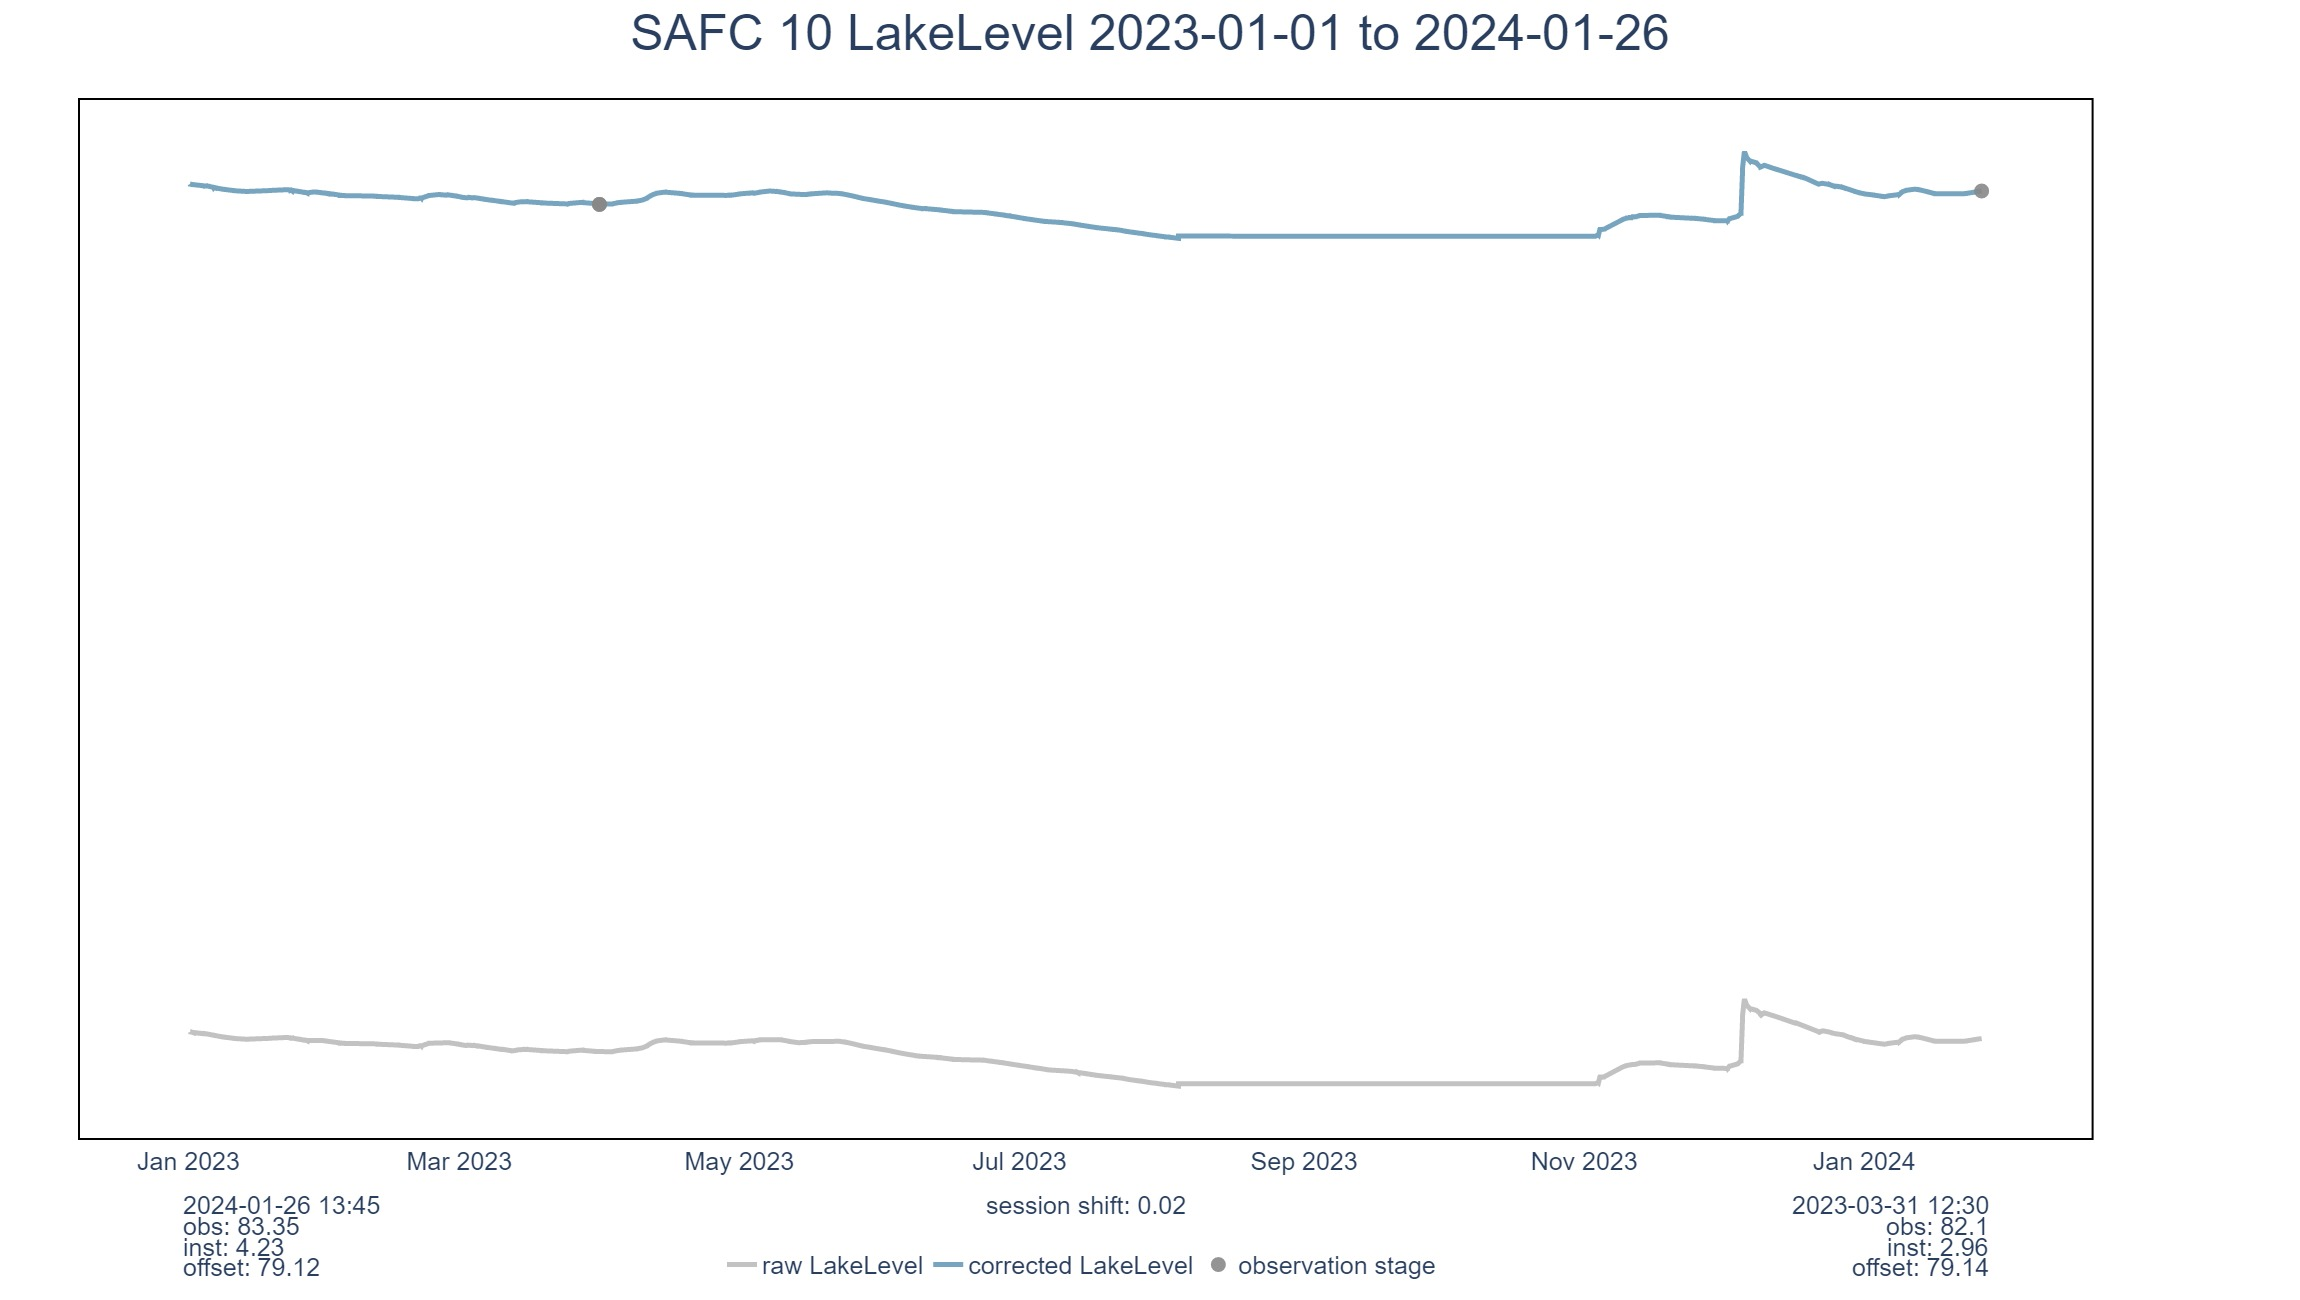
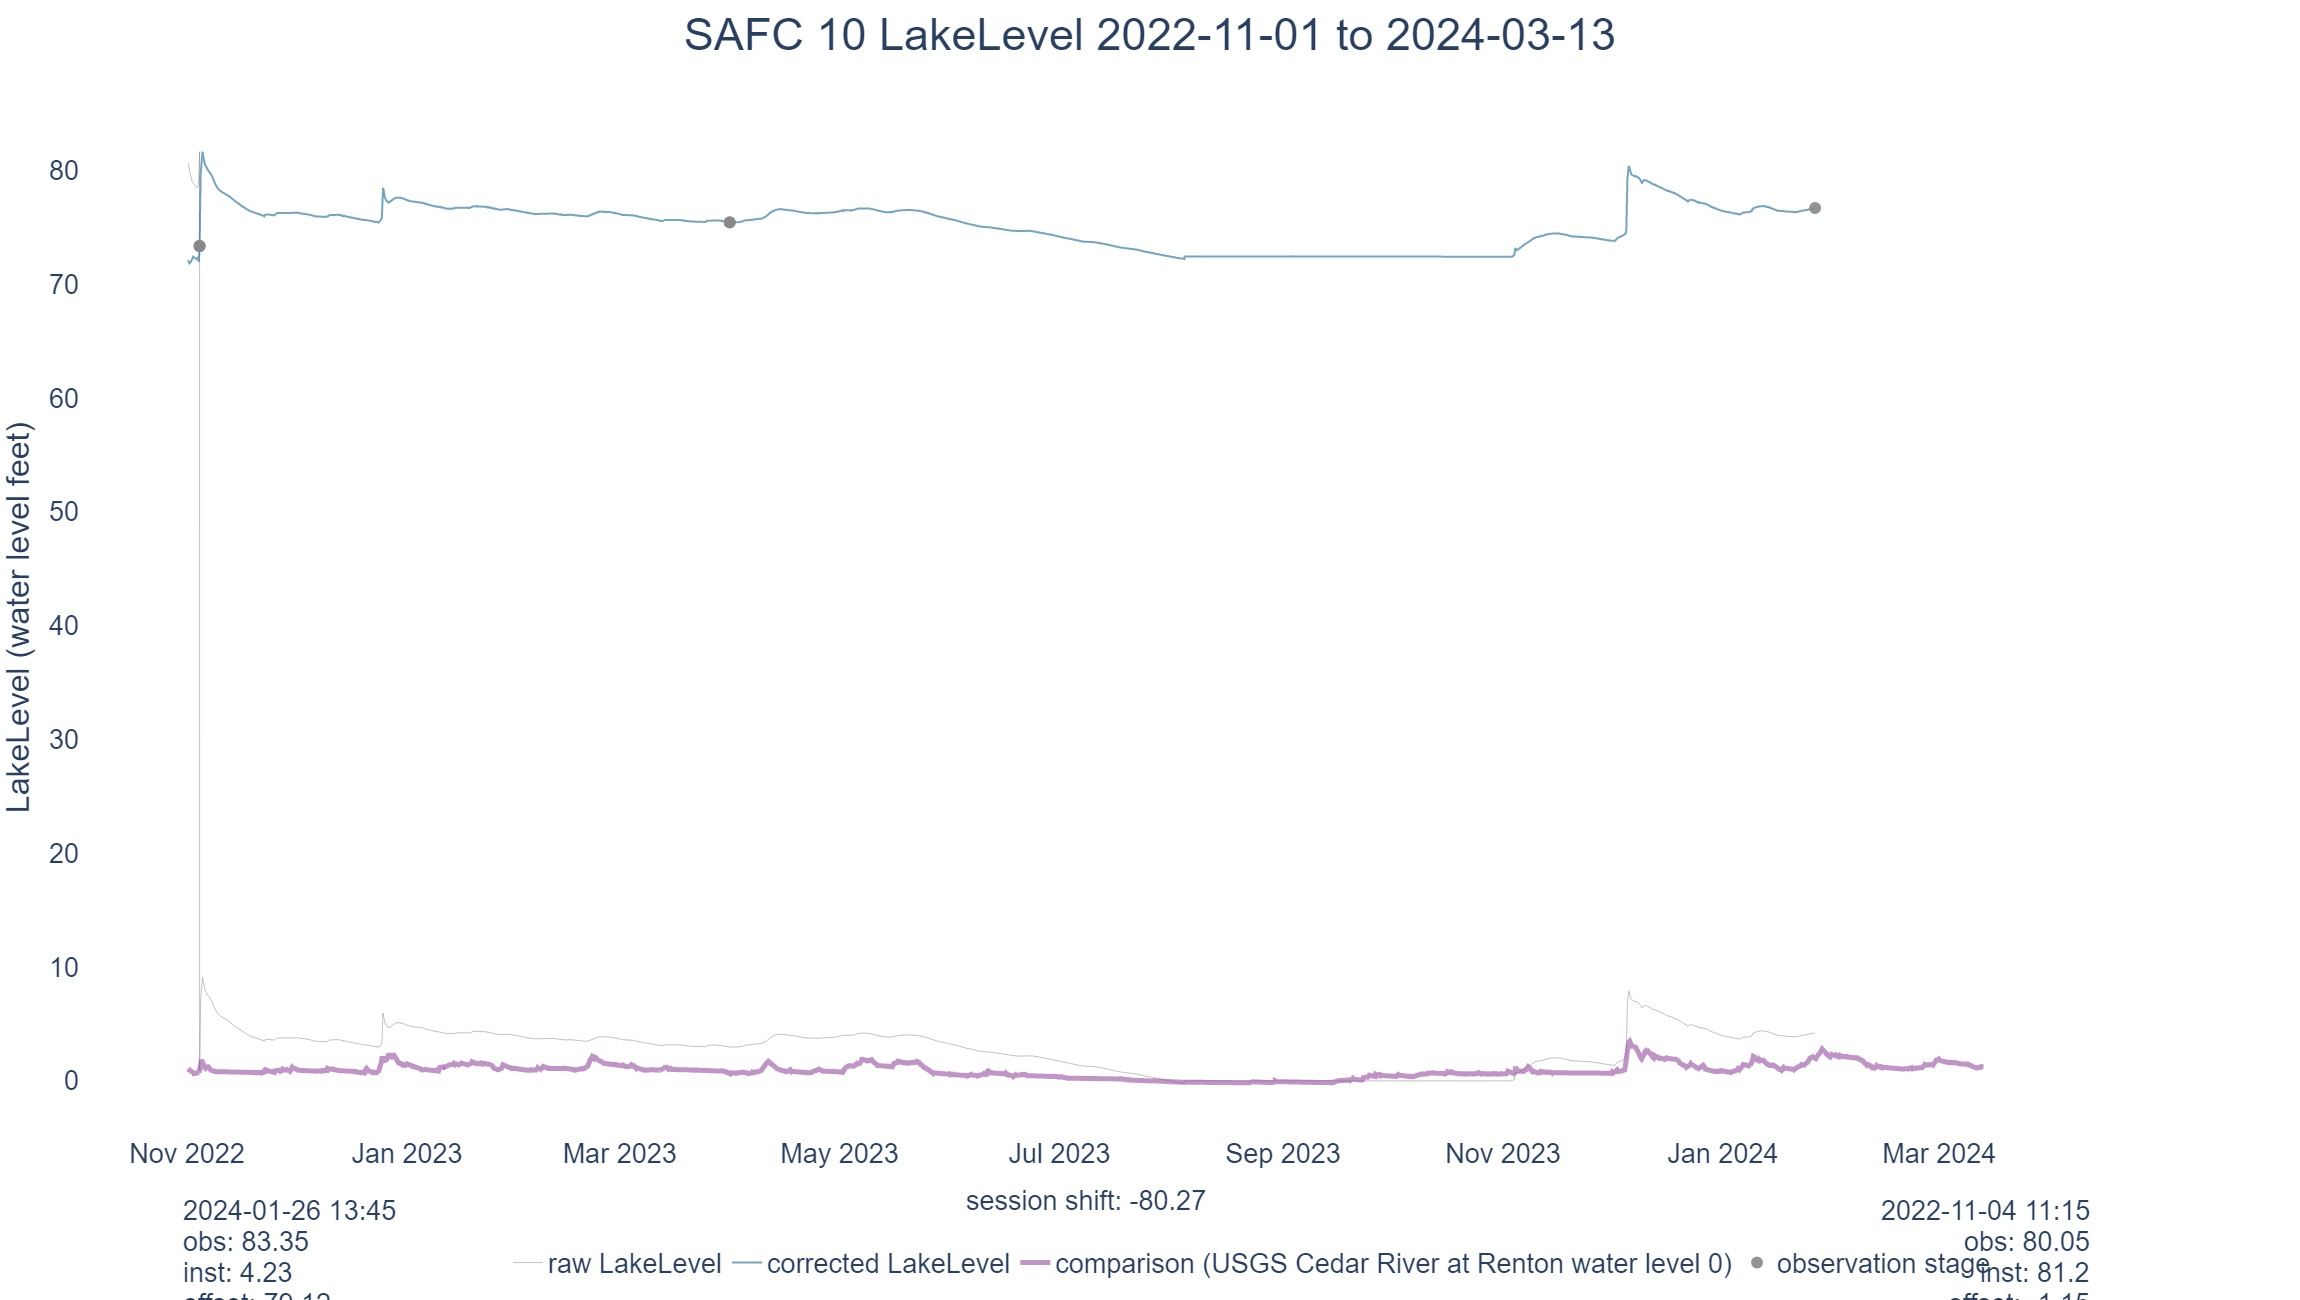
fixed end date function

diff --git a/cache_gdata.py b/cache_gdata.py
@@ -639,8 +639,6 @@ def update_Barometer(rows, Barometer_Button, Available_Barometers, Select_Data_S
                         df['data'] = df['data']
                 
                     from import_data import sql_import
-                    #baro_start_date = df.loc[df.index == 0, "datetime"].item()
-                    #baro_end_date =   df.loc[df.index == df.index[-1], "datetime"].item()
                     baro_start_date = df['datetime'].min()
                     baro_end_date = df['datetime'].max()
                     barometer_query = sql_import("barometer", B_ID_Lookup, baro_start_date, baro_end_date) # fx converts to PST and out of PST
@@ -653,7 +651,6 @@ def update_Barometer(rows, Barometer_Button, Available_Barometers, Select_Data_S
                     df = pd.merge(df,barometer_query[['datetime', "barometer_data"]],on=['datetime'])
                     df['data'] = ((df['data']-df["barometer_data"]) * 0.0335).round(3)
                     # Also a shotty conversion using a standard pressure
-                    #df = df[['datetime', 'data']]
                     df = df.drop(['barometer_data'], axis=1)
                     return  df.to_json(orient="split")
             except TypeError:
@@ -744,14 +741,6 @@ def get_observations(parameter_value, barometer_corrected_data, site_sql_id, sta
     #Output("Corrected_Data", "style_data_conditional"),
     # returning a blank df cant have deletable rows
     Output("Corrected_Data", "row_deletable"),
-    #Output(component_id='graph_output', component_property='children'),
-
-    #Input("data_axis","value"),
-    #Input("corrected_data_axis","value"),
-    #Input("derived_data_axis","value"),
-    #Input("observation_axis","value"),
-    #Input("comparison_axis","value"),
-
     Input("header_rows","value"),
     Input("realtime_update", "value"),
     Input("run_job", "n_clicks"),
@@ -759,7 +748,6 @@ def get_observations(parameter_value, barometer_corrected_data, site_sql_id, sta
     Input('select_range', 'startDate'),  # startDate is a dash parameter
     Input('select_range', 'endDate'),
     Input('checklist', 'value'),
-    #Input('interpolate_button', 'n_clicks'),
     Input('select_data_level', 'value'),
     Input('site', 'value'),
     Input('site_sql_id', 'children'),
@@ -791,8 +779,6 @@ def correct_data(header_rows, realtime_update, run_job, interpolate_button, star
 
     realtime_update_info = "" # placehoulder, I go back and forth bethween pausing the run until data is present and using placeholders
     callback_state = ""
-    #fig = go.Figure()
-    #fig = html.Div(dcc.Graph(figure = go.Figure()), style = {'width': '100%', 'display': 'inline-block'})
     
     # if there is no data to look at dont show data table
     # Input(component_id='Parameter', component_property='value'),
@@ -872,9 +858,6 @@ def correct_data(header_rows, realtime_update, run_job, interpolate_button, star
         if ("comparison_site" not in checklist) and "comparison" in df_raw.columns:
             df_raw.drop(columns=['comparison'], inplace=True)
 
-        from cache_graph import graph_display
-            #if (df_raw.empty or len(df_raw.columns) < 1):
-            #    return dash.no_update
         changed_id = [p['prop_id'] for p in dash.callback_context.triggered][0]
         if 'interpolate_button' in changed_id:
             from interpolation import cache_comparison_interpolation
@@ -902,20 +885,12 @@ def correct_data(header_rows, realtime_update, run_job, interpolate_button, star
             #            df_raw = df_raw.sort_values(by='datetime', ascending=False)
         
         df_raw = df_raw.sort_values(by='datetime', ascending=False)
-        #from graph_2 import cache_graph_export
-        #fig = cache_graph_export(df_raw, site_sql_id, site, Parameter_value, comparison_site, comparison_parameter, data_axis, corrected_data_axis, derived_data_axis, observation_axis, comparison_axis)
-        #if not dff.empty:
-        #    fig = cache_graph_export(df_raw, site_sql_id, site, Parameter_value)
-         #if 'run_job' not in changed_id and not dff.empty and realtime_update is False:
-         #    return dash.no_update
+    
         if realtime_update is False:
             realtime_update_info = "realtime updating  - paused - "
         if realtime_update is True:
             realtime_update_info = "realtime updating"
         
-        
-        #return df_raw.to_dict('records'), [{"name": i, "id": i} for i in df_raw.columns], [], True, fig
-        #return [f"{realtime_update_info}"],[f"{callback_state}"], df_raw.to_dict('records'), [{"name": i, "id": i} for i in df_raw.columns], True, fig
         return [f"{realtime_update_info}"],[f"{callback_state}"], df_raw.to_dict('records'), [{"name": i, "id": i} for i in df_raw.columns], True
   
 @app.callback(
@@ -986,8 +961,10 @@ def run_upload_data(n_clicks, df, site, site_sql_id, parameter, comparison_site,
             if "existing_data" in df.columns:
                 df = df.loc[df.existing_data.isnull()]
             
-            
-            save_fig(df, site, site_sql_id, parameter, comparison_site, comparison_parameter, rating, data_axis, corrected_data_axis, derived_data_axis, observation_axis, comparison_axis)
+            #end_date = df["datetime"].max().date().strftime("%Y_%m_%d")
+            df = reformat_data(df)
+            end_date = df["datetime"].max().date()
+            save_fig(df, site, site_sql_id, parameter, comparison_site, comparison_parameter, rating, data_axis, corrected_data_axis, derived_data_axis, observation_axis, comparison_axis, end_date)
             from sql_upload import full_upload
 
             desired_order = ["datetime", "data", "corrected_data", "discharge", "estimate"] # observation and observation_stage are kinda redundent at some point and should be clarified
@@ -1050,27 +1027,27 @@ def run_export_data(n_clicks, df, site, site_sql_id, parameter, comparison_site,
             df = reformat_data(df)  
            
             df_export = df.set_index('datetime').copy()
-            end_time = df["datetime"].max().date().strftime("%Y_%m_%d")
+            #end_date = df["datetime"].max().date().strftime("%Y_%m_%d")
+            end_date = df["datetime"].max().date()
           
             df_export.to_csv("W:/STS/hydro/GAUGE/Temp/Ian's Temp/" +
-                str(site)+"_"+str(parameter)+"_"+str(end_time)+".csv")
+                str(site)+"_"+str(parameter)+"_"+str(end_date)+".csv")
             df_export.to_csv("C:/Users/ihiggins/OneDrive - King County/cache_upload/" +
-                str(site)+"_"+str(parameter)+"_"+str(end_time)+".csv")
+                str(site)+"_"+str(parameter)+"_"+str(end_date)+".csv")
 
             df_export.to_csv("W:/STS/hydro/GAUGE/Temp/Ian's Temp/" +
-                str(site)+"_"+str(parameter)+"_"+str(end_time)+".csv")
+                str(site)+"_"+str(parameter)+"_"+str(end_date)+".csv")
             df_export.to_csv("C:/Users/ihiggins/OneDrive - King County/cache_upload/" +
-                str(site)+"_"+str(parameter)+"_"+str(end_time)+".csv")
+                str(site)+"_"+str(parameter)+"_"+str(end_date)+".csv")
 
 
-            save_fig(df, site, site_sql_id, parameter, comparison_site, comparison_parameter, rating, data_axis, corrected_data_axis, derived_data_axis, observation_axis, comparison_axis)
+            save_fig(df, site, site_sql_id, parameter, comparison_site, comparison_parameter, rating, data_axis, corrected_data_axis, derived_data_axis, observation_axis, comparison_axis, end_date)
 
             result = "  exported"
             return result
             #return result
     else:
         return dash.no_update
-        print("")
 
 
 # You could also return a 404 "URL not found" page here

diff --git a/graph_2.py b/graph_2.py
@@ -14,6 +14,7 @@ pio.kaleido.scope.default_format = "svg"
 from plotly.subplots import make_subplots
 import numpy as np
 import datetime as dt
+import plotly.graph_objects as go
 
 if not os.path.exists("images"):
     os.mkdir("images")
@@ -331,11 +332,12 @@ def cache_graph_export(df, site_code, site_name, parameter, comparison_site, com
     return html.Div(dcc.Graph(figure = fig), style = {'width': '100%', 'display': 'inline-block'})
 
 #def save_fig(df, site_code, site_name, parameter, comparison_site, comparison_parameter, data_axis, corrected_data_axis, derived_data_axis, observation_axis, comparison_axis):
-def save_fig(df, site, site_sql_id, parameter, comparison_site, comparison_parameter, rating, data_axis, corrected_data_axis, derived_data_axis, observation_axis, comparison_axis):
+def save_fig(df, site, site_sql_id, parameter, comparison_site, comparison_parameter, rating, data_axis, corrected_data_axis, derived_data_axis, observation_axis, comparison_axis, end_date):
     # end date
     fig = parameter_graph(df, site_sql_id, site, parameter, comparison_site, comparison_parameter, data_axis, corrected_data_axis, derived_data_axis, observation_axis, comparison_axis)
     #start_date = df.head(1).iloc[0, df.columns.get_loc("datetime")].date().strftime("%Y_%m_%d")
-    end_date = df.tail(1).iloc[0, df.columns.get_loc("datetime")].date().strftime("%Y_%m_%d")
+   # end_date = df.tail(1).iloc[0, df.columns.get_loc("datetime")].date().strftime("%Y_%m_%d")
+    #end_date = df['datetime'].max().date()
 
     # end_date = dt.datetime.strftime(df['datetime'].max(), '%Y-%m-%d')
     paper_width = 2300

diff --git a/rating_analysis.py b/rating_analysis.py
@@ -30,8 +30,8 @@ import configparser
 import pickle 
 from scipy import interpolate
 from scipy.interpolate import interp1d, UnivariateSpline
-from sklearn.preprocessing import StandardScaler
-from sklearn.neural_network import MLPRegressor
+#from sklearn.preprocessing import StandardScaler
+#from sklearn.neural_network import MLPRegressor
 # add a note ####
 # added a second note #
 # a forth comment

diff --git a/logger_managment.py b/logger_managment.py
@@ -1,0 +1,7 @@
+# not immediatly associated with cache gdata
+
+import pandas as pd
+
+
+loggers = [10766101,10766232,1237466,10434229,1280526,9849734,9811814,9811808,9811786,1250536,9811785,9828867,10416771,9991914,1250529,20155419,10395543,20075746,2443820,20098933,20028934]
+print(loggers)
